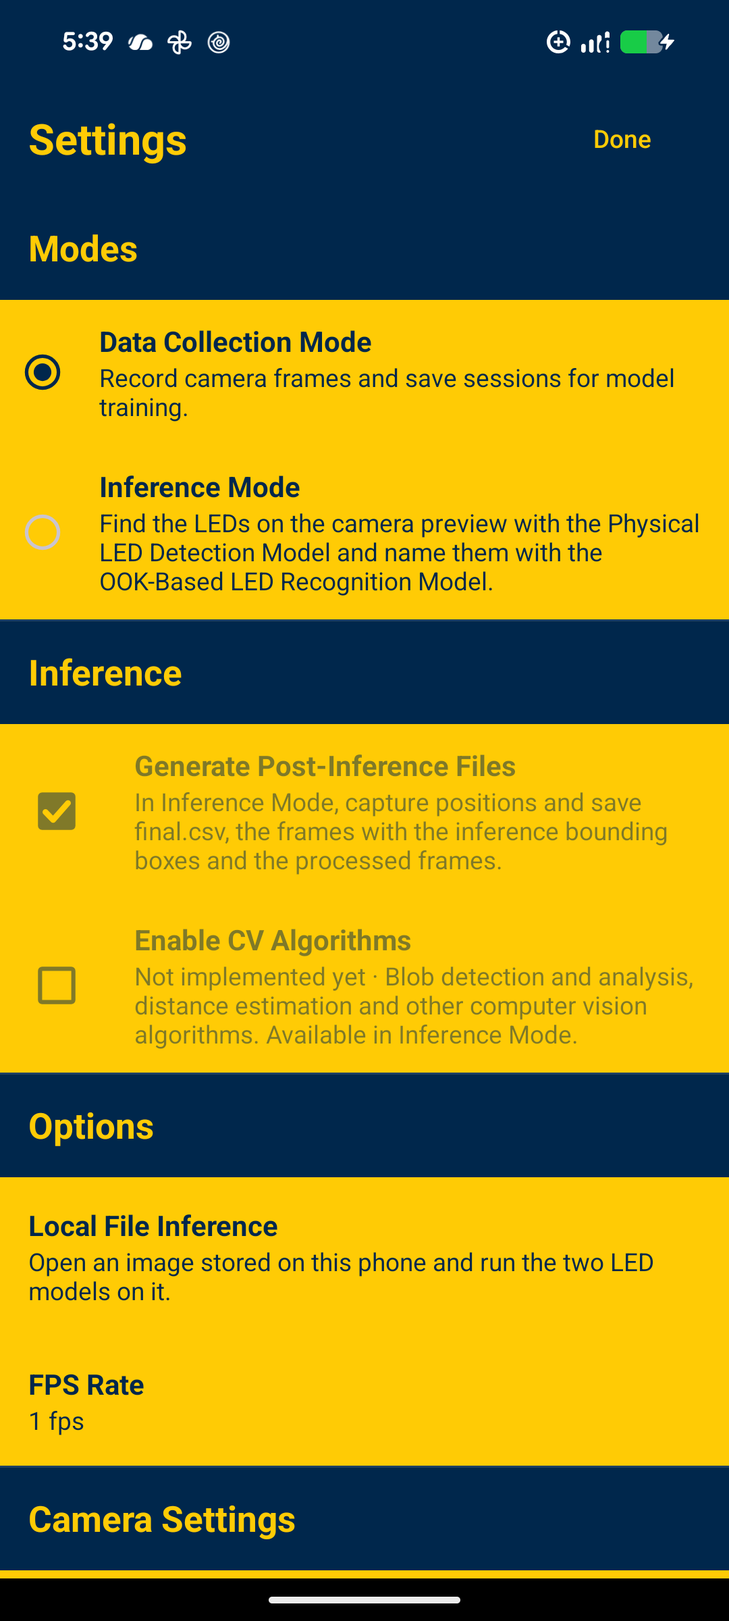
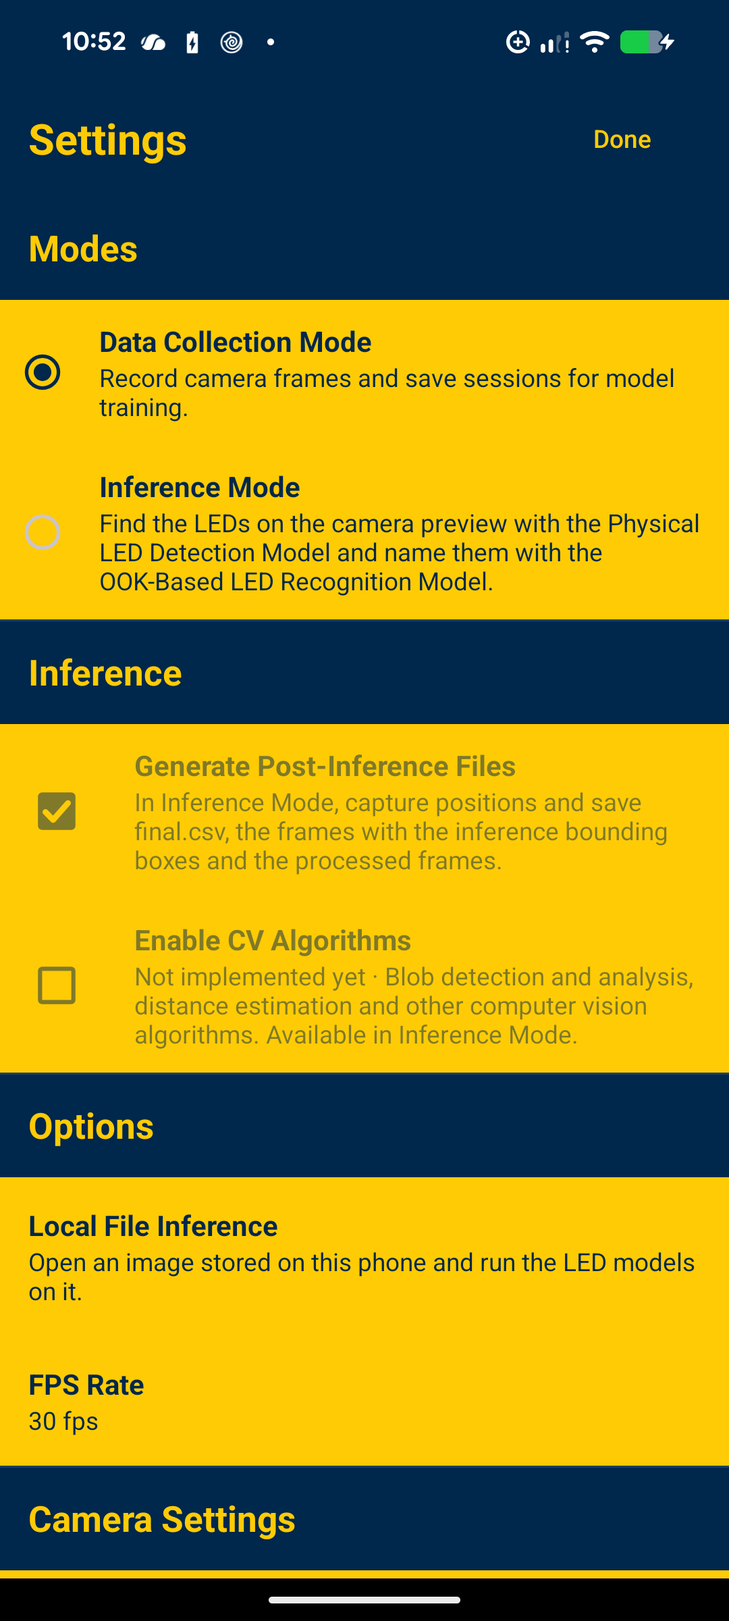
<DKA - November 18th 2026> {Draw processed frames from the two models in Inference Mode, default to 30 fps and 50 frames}
A capture made in Inference Mode now gets its Processed_Frames from the LED
Detection Model and the OOK-Based LED Recognition Model: a box round every LED
found, a cross at its centre and the LED number it was named, with processed
frame metadata that holds the same LEDs. LED detection runs only on a frame the
models could not run on. Data Collection Mode is unchanged.

A new installation and a factory reset now start at 30 fps and 50 frames.

Version 1.3.1. Screenshots 7, 10, 11, 14 and 16 retaken and 17 (Inference
Models) added.

diff --git a/app/src/main/java/com/developer27/qvlp/capture/CaptureProcessing.kt b/app/src/main/java/com/developer27/qvlp/capture/CaptureProcessing.kt
@@ -26,12 +26,14 @@ internal object CaptureProcessing {
     }
 
     /**
-     * [leds] holds the frames whose detection ran; [saved] the frame IDs whose files were all written;
-     * [inferred] the LEDs the two models found and named in each frame they ran on (Inference Mode captures only).
+     * [leds] holds the frames LED detection ran on: every frame of a Data Collection capture, and of an
+     * Inference Mode capture only a frame the models could not run on. [saved] holds the frame IDs whose files
+     * were all written; [inferred] the LEDs the two models found and named in each frame they ran on
+     * (Inference Mode captures only).
      */
     data class Result(val leds: Map<Int, FrameLeds>, val saved: Set<Int>, val inferred: Map<Int, List<LedDetection>> = emptyMap())
 
-    private class Frame(val id: Int, val leds: FrameLeds, val inferred: List<LedDetection>?)
+    private class Frame(val id: Int, val leds: FrameLeds?, val inferred: List<LedDetection>?)
 
     /** The camera's own report: its rolling-shutter skew spread over the rows of the frame. */
     fun rowTime(frames: Collection<JSONObject>): RowTime {
@@ -57,9 +59,11 @@ internal object CaptureProcessing {
      * picture, the annotated picture and both metadata files. The mapping files are written last, so their
      * presence means the capture is complete.
      *
-     * With [inference], the two LED models also run on every frame and the capture gets its post-inference
-     * files: each frame with the models' boxes, and what they found in it. The models are given the frames one
-     * at a time in the order they were taken, because an LED is named from its last five frames.
+     * With [inference], the two LED models run on every frame instead of LED detection, and the capture gets its
+     * post-inference files: each frame with the models' boxes, what they found in it, and processed frames
+     * that show the same LEDs. The models are given the frames one at a time in the order they were taken,
+     * because an LED is named from its last five frames. A frame they cannot run on is processed by LED
+     * detection, as in a Data Collection capture.
      */
     fun process(capture: File, frames: List<JSONObject>, rowTime: RowTime, settings: LedDetectionSettings,
                 cameraMetadata: (JSONObject) -> JSONObject, inference: FrameInference? = null,
@@ -90,23 +94,28 @@ internal object CaptureProcessing {
                     val raw = rawFile(capture, id)
                     val pixels = space.pixels(FramePng.i420Size(width, height))
                     DataInputStream(raw.inputStream()).use { it.readFully(pixels, 0, FramePng.i420Size(width, height)) }
-                    // Detection reads the luminance plane, which comes first in the raw frame.
-                    val found = space.detector.detect(pixels, width, height, rowTime.seconds)
                     val rgb = space.rgb(width * height * 3)
                     FramePng.toRgb(pixels, width, height, rgb)
                     val picture = FramePng.encode(rgb, width, height)
-                    // The model sees the frame before anything is drawn on it. A frame it cannot run on is still saved.
+                    // The models see the frame before anything is drawn on it. A frame they cannot run on is still saved.
                     val inferred = inference?.let { model -> order!!.turn(index) { runCatching { model.run(rgb, width, height) }.getOrNull() } }
+                    // The processed frame of an Inference Mode capture holds what the two models found. LED detection
+                    // runs where they did not; it reads the luminance plane, which comes first in the raw frame.
+                    val found = if (inferred == null) space.detector.detect(pixels, width, height, rowTime.seconds) else null
+                    val drawn = if (inferred != null) FrameOverlay.drawInferred(rgb, width, height, inferred.detections)
+                        else FrameOverlay.draw(rgb, width, height, found!!)
                     // A frame with nothing found looks the same processed, so its picture is reused as it is.
-                    val annotated = if (FrameOverlay.draw(rgb, width, height, found)) FramePng.encode(rgb, width, height) else picture
+                    val annotated = if (drawn) FramePng.encode(rgb, width, height) else picture
+                    // What the models found is the processed metadata too: it starts with the same fields.
+                    val inferredData = inferred?.let { PostInferenceFiles.metadata(id, it, inference!!.models).toString(2).toByteArray() }
                     write(File(folders[0], SessionLayout.frameName(id)), picture)
                     write(File(folders[1], SessionLayout.metadataName(id)), cameraMetadata(frame).toString(2).toByteArray())
                     write(File(folders[2], SessionLayout.frameName(id)), annotated)
-                    write(File(folders[3], SessionLayout.metadataName(id)), processedMetadata(id, found, rowTime).toString(2).toByteArray())
+                    write(File(folders[3], SessionLayout.metadataName(id)),
+                        inferredData ?: processedMetadata(id, found!!, rowTime).toString(2).toByteArray())
                     if (inferred != null) {
                         write(File(inferenceFolders[0], SessionLayout.frameName(id)), inferred.picture)
-                        write(File(inferenceFolders[1], SessionLayout.metadataName(id)),
-                            PostInferenceFiles.metadata(id, inferred, inference!!.models).toString(2).toByteArray())
+                        write(File(inferenceFolders[1], SessionLayout.metadataName(id)), inferredData!!)
                     }
                     saved.add(id)
                     raw.delete()
@@ -124,7 +133,7 @@ internal object CaptureProcessing {
             val inferred = leds.filter { it.inferred != null && it.id in saved }.associate { it.id to it.inferred!! }
             if (inference != null) write(File(inferenceFolder, SessionLayout.INFERENCE_MAPPING),
                 SessionLayout.mapping(inferred.keys.sorted()).toByteArray())
-            return Result(leds.associate { it.id to it.leds }, saved, inferred)
+            return Result(leds.filter { it.leds != null }.associate { it.id to it.leds!! }, saved, inferred)
         } finally {
             pool.shutdown()
         }

diff --git a/app/src/androidTest/java/com/developer27/qvlp/inference/LedRecognitionDeviceTest.kt b/app/src/androidTest/java/com/developer27/qvlp/inference/LedRecognitionDeviceTest.kt
@@ -5,14 +5,25 @@ import android.graphics.BitmapFactory
 import android.util.Log
 import androidx.test.ext.junit.runners.AndroidJUnit4
 import androidx.test.platform.app.InstrumentationRegistry
+import com.developer27.qvlp.capture.CaptureProcessing
+import com.developer27.qvlp.capture.SessionCsv
+import com.developer27.qvlp.capture.SessionLayout
+import com.developer27.qvlp.vision.FramePng
+import com.developer27.qvlp.vision.LedDetectionSettings
+import org.json.JSONObject
 import org.junit.Assert.*
 import org.junit.Test
 import org.junit.runner.RunWith
+import java.io.File
+import java.time.LocalDateTime
 import java.util.concurrent.FutureTask
+import kotlin.math.abs
+import kotlin.math.roundToInt
 
 /**
  * Runs the Physical LED Detection Model and the OOK-Based LED Recognition Model on the phone, on a frame of
- * the test split of the third session's datasets, whose LEDs are known. It touches no session: run it alone with
+ * the test split of the third session's datasets, whose LEDs are known. It touches no session (the capture it
+ * processes is written into the app's cache and deleted): run it alone with
  * `adb shell am instrument -w -e class com.developer27.qvlp.inference.LedRecognitionDeviceTest …`.
  */
 @RunWith(AndroidJUnit4::class)
@@ -90,6 +101,69 @@ class LedRecognitionDeviceTest {
         }
         assertArrayEquals(untouched, rgb)
         Log.i("QvlpLedModelTest", "the frames of a capture: ${frames.map { it.milliseconds }} ms; ${describe(frames.last().detections)}")
+    }
+
+    @Test fun aCaptureGetsItsProcessedFramesFromBothModels() {
+        // A whole Inference Mode capture of six frames, as the camera gives them: luminance with half-resolution colour.
+        val picture = frame()
+        val width = picture.width
+        val height = picture.height
+        val pixels = IntArray(width * height)
+        picture.getPixels(pixels, 0, width, 0, 0, width, height)
+        val raw = ByteArray(FramePng.i420Size(width, height))
+        val chromaWidth = (width + 1) / 2
+        val uPlane = width * height
+        val vPlane = uPlane + chromaWidth * ((height + 1) / 2)
+        for (y in 0 until height) for (x in 0 until width) {
+            val colour = pixels[y * width + x]
+            val red = (colour shr 16) and 0xFF; val green = (colour shr 8) and 0xFF; val blue = colour and 0xFF
+            raw[y * width + x] = (0.299 * red + 0.587 * green + 0.114 * blue).roundToInt().coerceIn(0, 255).toByte()
+            if (y % 2 == 0 && x % 2 == 0) {
+                val at = (y / 2) * chromaWidth + x / 2
+                raw[uPlane + at] = (128 - 0.168736 * red - 0.331264 * green + 0.5 * blue).roundToInt().coerceIn(0, 255).toByte()
+                raw[vPlane + at] = (128 + 0.5 * red - 0.418688 * green - 0.081312 * blue).roundToInt().coerceIn(0, 255).toByte()
+            }
+        }
+        val session = File(instrumentation.targetContext.cacheDir, "device_test_session_${System.nanoTime()}")
+        try {
+            val capture = File(SessionLayout.originals(session), SessionLayout.captureName(28, LocalDateTime.of(2026, 11, 18, 23, 0, 0)))
+            assertTrue(File(capture, SessionLayout.FRAMES).mkdirs())
+            val frames = (0..5).map { JSONObject().put("frame_id", it).put("width", width).put("height", height) }
+            frames.forEach { CaptureProcessing.rawFile(capture, it.getInt("frame_id")).writeBytes(raw) }
+
+            val result = CaptureProcessing.process(capture, frames, CaptureProcessing.RowTime(null, "unknown"), LedDetectionSettings(),
+                { JSONObject().put("frame_id", it.getInt("frame_id")) }, LedRecognition.frames(instrumentation.targetContext)) { _, _ -> }
+
+            assertEquals((0..5).toSet(), result.saved)
+            assertEquals((0..5).toSet(), result.inferred.keys)
+            // LED detection did not run: the processed frames are the two models' alone.
+            assertTrue(result.leds.isEmpty())
+            val processed = SessionLayout.processedFolder(capture)
+            val colours = intArrayOf(0xD62728, 0x1F77B4, 0x2CA02C, 0x9467BD)
+            for (id in 0..5) {
+                val text = File(processed, "${SessionLayout.PROCESSED_METADATA}/${SessionLayout.metadataName(id)}").readText()
+                val data = JSONObject(text)
+                assertEquals(LedRecognition.DETECTION_MODEL_FILE, data.getJSONObject("details").getString("detection_model"))
+                assertEquals(LedRecognition.RECOGNITION_MODEL_FILE, data.getJSONObject("details").getString("recognition_model"))
+                val drawn = BitmapFactory.decodeFile(File(processed, "${SessionLayout.PROCESSED_FRAMES}/${SessionLayout.frameName(id)}").path)
+                for ((led, box) in labelled) {
+                    // Each LED is named and is where it is labelled, and its cross is on the picture in its colour.
+                    assertEquals("frame $id: $text", 1, data.getInt("LED_${led}_detected"))
+                    val u = data.getDouble("LED_${led}_u_px")
+                    val v = data.getDouble("LED_${led}_v_px")
+                    assertTrue("frame $id LED $led at $u, $v", abs(u - ((box[0] + box[2]) / 2 - 0.5)) < 4 && abs(v - ((box[1] + box[3]) / 2 - 0.5)) < 4)
+                    assertEquals("frame $id LED $led", colours[led - 1], drawn.getPixel(u.roundToInt(), v.roundToInt()) and 0xFFFFFF)
+                }
+            }
+            // Both folders give final.csv the same row.
+            assertEquals(SessionCsv.readInference(SessionLayout.inferenceFolder(capture)), SessionCsv.readProcessed(processed))
+            // One processed frame is kept where it can be looked at from a computer.
+            instrumentation.targetContext.getExternalFilesDir(null)?.let { folder ->
+                File(processed, "${SessionLayout.PROCESSED_FRAMES}/${SessionLayout.frameName(5)}").copyTo(File(folder, "device_test_processed_frame.png"), overwrite = true)
+            }
+        } finally {
+            session.deleteRecursively()
+        }
     }
 
     @Test fun onlyTheTickedModelsRun() {

diff --git a/app/src/test/java/com/developer27/qvlp/capture/CaptureProcessingTest.kt b/app/src/test/java/com/developer27/qvlp/capture/CaptureProcessingTest.kt
@@ -116,10 +116,25 @@ class CaptureProcessingTest {
                 "$inference/inference_frames/frame_00000.png", "$inference/inference_frames/frame_00001.png",
                 "$inference/inference_frames/frame_00002.png",
             ), files.filter { it.startsWith("Inference_Frames/") })
-            // The original and processed frames are written exactly as in Data Collection Mode.
+            // The original and processed frames have the same files as in Data Collection Mode.
             assertEquals(7, files.count { it.startsWith("Original_Frames/") })
             assertEquals(7, files.count { it.startsWith("Processed_Frames/") })
             assertArrayEquals(byteArrayOf(1, 2, 3), File(session, "$inference/inference_frames/frame_00000.png").readBytes())
+
+            // The processed frames hold what the two models found, not what LED detection finds in this frame:
+            // LED 2 in its box, where LED detection would name the 1800 Hz light LED 1.
+            assertTrue(result.leds.isEmpty())
+            val processed = "Processed_Frames/processed_position_frames_4_20261116_210000"
+            val processedData = File(session, "$processed/processed_frame_metadata/frame_00002_metadata.json").readText()
+            assertEquals(File(session, "$inference/inference_frame_metadata/frame_00002_metadata.json").readText(), processedData)
+            assertEquals(1, JSONObject(processedData).getInt("LED_2_detected"))
+            assertEquals(0, JSONObject(processedData).getInt("LED_1_detected"))
+            assertEquals(com.developer27.qvlp.inference.LedRecognition.RECOGNITION_MODEL_FILE,
+                JSONObject(processedData).getJSONObject("details").getString("recognition_model"))
+            val drawn = FramePng.i420Size(width, height).let { ByteArray(width * height * 3).also { rgb -> FramePng.toRgb(rawFrame(), width, height, rgb) } }
+            assertTrue(com.developer27.qvlp.vision.FrameOverlay.drawInferred(drawn, width, height, listOf(LedDetection(2, 0.97f, 300f, 220f, 340f, 260f))))
+            assertArrayEquals(FramePng.encode(drawn, width, height), File(session, "$processed/processed_frames/frame_00002.png").readBytes())
+            assertEquals(SessionCsv.readInference(SessionLayout.inferenceFolder(capture)), SessionCsv.readProcessed(SessionLayout.processedFolder(capture)))
 
             // The inference metadata gives the centre of the model's box, and final.csv is built from it.
             val leds = JSONObject(File(session, "$inference/inference_frame_metadata/frame_00002_metadata.json").readText())
@@ -195,6 +210,11 @@ class CaptureProcessingTest {
 
             assertEquals(setOf(0, 1), result.saved)
             assertTrue(result.inferred.isEmpty())
+            // Its processed frames come from LED detection, as in a Data Collection capture.
+            assertEquals(setOf(0, 1), result.leds.keys)
+            val details = JSONObject(File(SessionLayout.processedFolder(capture), "processed_frame_metadata/frame_00001_metadata.json").readText()).getJSONObject("details")
+            assertTrue(details.has("blobs_found"))
+            assertFalse(details.has("recognition_model"))
             // The mapping file exists and lists no frame, so the position's LEDs count as not found rather than unknown.
             assertEquals("frame_file,metadata_file\n",
                 File(SessionLayout.inferenceFolder(capture), SessionLayout.INFERENCE_MAPPING).readText())

diff --git a/app/src/main/java/com/developer27/qvlp/vision/FrameOverlay.kt b/app/src/main/java/com/developer27/qvlp/vision/FrameOverlay.kt
@@ -1,10 +1,14 @@
 package com.developer27.qvlp.vision
 
+import com.developer27.qvlp.inference.LedDetection
+import kotlin.math.ceil
+import kotlin.math.floor
 import kotlin.math.roundToInt
 
 /**
  * Draws what LED detection found onto a frame: a box around every blob, a cross at its centre and its LED name.
  * This is the "processed" picture of a frame. A dashed box marks a blob that was found but not accepted.
+ * A capture made in Inference Mode gets the same picture from what the two LED models found.
  */
 internal object FrameOverlay {
     /** One colour per LED, as in the project's figures: red, blue, green, purple. */
@@ -27,6 +31,29 @@ internal object FrameOverlay {
             val textHeight = 7 * TEXT_SCALE
             val above = blob.top - LINE - textHeight - 4
             text(rgb, width, height, blob.left - LINE, if (above >= 0) above else blob.top + blob.height + LINE + 4, label, colour)
+        }
+        return true
+    }
+
+    /**
+     * The processed picture of a frame from an Inference Mode capture: a box round every LED the detection
+     * model found, a cross at its centre and the name the recognition model gave it. An LED that was found but
+     * not named is yellow and marked "LED ?". Returns false when there was nothing to draw.
+     */
+    fun drawInferred(rgb: ByteArray, width: Int, height: Int, found: List<LedDetection>): Boolean {
+        if (found.isEmpty()) return false
+        for (led in found) {
+            val colour = if (led.named) LED_COLOURS[(led.led - 1).mod(LED_COLOURS.size)] else UNKNOWN
+            // The pixels the box covers; the line is drawn just outside them, as round a blob.
+            val left = floor(led.left).toInt()
+            val top = floor(led.top).toInt()
+            val right = maxOf(left, ceil(led.right).toInt() - 1)
+            val bottom = maxOf(top, ceil(led.bottom).toInt() - 1)
+            box(rgb, width, height, left - LINE, top - LINE, right + LINE, bottom + LINE, colour, dashed = false)
+            // The centre as the metadata gives it: measured from the centre of the top-left pixel.
+            cross(rgb, width, height, ((led.left + led.right) / 2f - 0.5f).roundToInt(), ((led.top + led.bottom) / 2f - 0.5f).roundToInt(), colour)
+            val above = top - LINE - 7 * TEXT_SCALE - 4
+            text(rgb, width, height, left - LINE, if (above >= 0) above else bottom + LINE + 5, if (led.named) "LED ${led.led}" else "LED ?", colour)
         }
         return true
     }

diff --git a/app/src/test/java/com/developer27/qvlp/vision/FrameOverlayTest.kt b/app/src/test/java/com/developer27/qvlp/vision/FrameOverlayTest.kt
@@ -1,5 +1,6 @@
 package com.developer27.qvlp.vision
 
+import com.developer27.qvlp.inference.LedDetection
 import org.junit.Assert.*
 import org.junit.Test
 
@@ -34,6 +35,29 @@ class FrameOverlayTest {
         // An accepted LED has a solid box; a rejected one is dashed, so part of its edge stays clear.
         assertTrue((98..141).all { pixel(rgb, it, 78) == 0xD62728 })
         assertTrue((228..271).any { pixel(rgb, it, 158) == 0 })
+    }
+
+    @Test fun marksWhatTheModelsFoundTheSameWay() {
+        val rgb = ByteArray(width * height * 3)
+        assertFalse(FrameOverlay.drawInferred(rgb, width, height, emptyList()))
+        assertTrue(rgb.all { it.toInt() == 0 })
+        val second = LedDetection(2, 0.97f, 100f, 80f, 140f, 120f)
+        val fourth = LedDetection(4, 0.99f, 230.4f, 160.2f, 270.6f, 199.8f)
+        val unnamed = LedDetection(LedDetection.UNNAMED, 0.9f, 20f, 180f, 60f, 220f)
+        assertTrue(FrameOverlay.drawInferred(rgb, width, height, listOf(second, fourth, unnamed)))
+        // The cross is at the centre the metadata gives, 119.5 and 99.5, rounded.
+        assertEquals(0x1F77B4, pixel(rgb, 120, 100))
+        // A solid box just outside the pixels the model's box covers, columns 100 to 139 and rows 80 to 119.
+        assertTrue((98..141).all { pixel(rgb, it, 78) == 0x1F77B4 && pixel(rgb, it, 121) == 0x1F77B4 })
+        assertTrue((78..121).all { pixel(rgb, 98, it) == 0x1F77B4 && pixel(rgb, 141, it) == 0x1F77B4 })
+        assertEquals(0, pixel(rgb, 105, 85))
+        assertEquals(0x9467BD, pixel(rgb, 250, 180))   // LED 4
+        assertEquals(0x9467BD, pixel(rgb, 228, 158))   // its box holds the part-covered edge pixels too
+        assertEquals(0xFFD400, pixel(rgb, 40, 200))    // found by the detection model, not named
+        assertEquals(0, pixel(rgb, 5, 5))
+        // Drawing never leaves the frame.
+        assertTrue(FrameOverlay.drawInferred(ByteArray(width * height * 3), width, height,
+            listOf(LedDetection(1, 1f, -4f, -4f, 6f, 6f), LedDetection(3, 1f, 300f, 220f, 330f, 250f))))
     }
 
     @Test fun drawingNeverLeavesTheFrame() {

diff --git a/app/src/main/java/com/developer27/qvlp/camera/CaptureSettings.kt b/app/src/main/java/com/developer27/qvlp/camera/CaptureSettings.kt
@@ -3,12 +3,12 @@ package com.developer27.qvlp.camera
 import java.math.BigDecimal
 
 internal object CaptureSettings {
-    /** A new installation starts at a 6000 Hz rolling shutter rate, ISO 100 and 1 fps. */
+    /** A new installation starts at a 6000 Hz rolling shutter rate, ISO 100 and 30 fps. */
     const val DEFAULT_SHUTTER_RATE_HZ = 6000
     const val DEFAULT_EXPOSURE_NS = 1_000_000_000L / DEFAULT_SHUTTER_RATE_HZ
     const val DEFAULT_ISO_RATE = 100
-    const val DEFAULT_FPS_RATE = 1
-    /** The rate the fixed resolution has to support. It is not the default FPS rate. */
+    const val DEFAULT_FPS_RATE = 30
+    /** The rate the fixed resolution has to support. */
     const val DEFAULT_FPS = 30
 
     /** Accept microseconds with at most nanosecond precision; reject overflow and zero. */
@@ -49,7 +49,7 @@ internal object CaptureSettings {
     fun fpsRange(frameRates: List<Int>): IntRange =
         if (frameRates.isEmpty()) DEFAULT_FPS..DEFAULT_FPS else frameRates.min()..frameRates.max()
 
-    /** The FPS rate a camera starts with: 1 fps, or the slowest rate it has when it cannot go that slowly. */
+    /** The FPS rate a camera starts with: 30 fps, or the rate nearest to it that the camera has. */
     fun defaultFps(frameRates: List<Int>): Int = fpsRange(frameRates).let { DEFAULT_FPS_RATE.coerceIn(it.first, it.last) }
 
     /** A typed FPS rate, or null when it is not a whole number inside [range]. */

diff --git a/app/src/test/java/com/developer27/qvlp/camera/CaptureSettingsTest.kt b/app/src/test/java/com/developer27/qvlp/camera/CaptureSettingsTest.kt
@@ -62,11 +62,13 @@ class CaptureSettingsTest {
     }
 
     @Test
-    fun aCameraStartsAtOneFps() {
-        assertEquals(1, CaptureSettings.DEFAULT_FPS_RATE)
-        assertEquals(1, CaptureSettings.defaultFps(listOf(1, 5, 10, 15, 24, 25, 30)))
-        // A camera that cannot go as slowly as 1 fps starts at the slowest rate it has.
-        assertEquals(5, CaptureSettings.defaultFps(listOf(5, 30, 60)))
+    fun aCameraStartsAtThirtyFps() {
+        assertEquals(30, CaptureSettings.DEFAULT_FPS_RATE)
+        assertEquals(30, CaptureSettings.defaultFps(listOf(1, 5, 10, 15, 24, 25, 30)))
+        assertEquals(30, CaptureSettings.defaultFps(listOf(5, 30, 60)))
+        // A camera that cannot reach 30 fps starts at the fastest rate it has, and one that cannot go that slowly at its slowest.
+        assertEquals(24, CaptureSettings.defaultFps(listOf(1, 15, 24)))
+        assertEquals(60, CaptureSettings.defaultFps(listOf(60, 120)))
         assertEquals(30, CaptureSettings.defaultFps(emptyList()))
     }
 

diff --git a/app/src/main/java/com/developer27/qvlp/capture/SessionLayout.kt b/app/src/main/java/com/developer27/qvlp/capture/SessionLayout.kt
@@ -15,7 +15,7 @@ import java.time.format.DateTimeFormatter
  *           metadata/frame_00000_metadata.json …        camera settings of each frame
  *           frame_and_metadata_mapping.csv
  *       Processed_Frames/
- *         processed_position_frames_<id>_<timestamp>/   the same capture after LED detection
+ *         processed_position_frames_<id>_<timestamp>/   the same capture after LED detection, or after the two LED models
  *           processed_frames/frame_00000.png …
  *           processed_frame_metadata/frame_00000_metadata.json …
  *           processed_frame_and_metadata_mapping.csv

diff --git a/app/src/main/java/com/developer27/qvlp/FactoryReset.kt b/app/src/main/java/com/developer27/qvlp/FactoryReset.kt
@@ -7,7 +7,7 @@ import com.developer27.qvlp.capture.SessionFiles
 
 /**
  * Puts the settings back the way a new installation starts: the front camera, 1× zoom, the default rolling
- * shutter rate (6000 Hz), ISO 100 and 1 fps on every camera, 30 frames, Inference Mode with both Inference Models
+ * shutter rate (6000 Hz), ISO 100 and 30 fps on every camera, 50 frames, Inference Mode with both Inference Models
  * ticked, Generate Post-Inference Files ticked, Enable CV Algorithms unticked and no position chosen.
  * Recorded sessions and the auto-save folder are not settings and are kept.
  */

diff --git a/app/src/main/java/com/developer27/qvlp/camera/ResearchPreset.kt b/app/src/main/java/com/developer27/qvlp/camera/ResearchPreset.kt
@@ -8,7 +8,7 @@ import kotlin.math.abs
  * the operator only chooses the rolling shutter rate and ISO.
  */
 internal object ResearchPreset {
-    /** The fixed values, with the three adjustable ones at their defaults: 6000 Hz, ISO 100 and 1 fps. */
+    /** The fixed values, with the three adjustable ones at their defaults: 6000 Hz, ISO 100 and 30 fps. */
     fun defaults(capabilities: CameraCapabilities): CameraProfile {
         // The resolution is chosen for 30 fps; the camera then starts at the default FPS rate.
         val stream = streamAndRate(capabilities).first

diff --git a/app/src/test/java/com/developer27/qvlp/capture/CaptureLengthTest.kt b/app/src/test/java/com/developer27/qvlp/capture/CaptureLengthTest.kt
@@ -11,7 +11,7 @@ class CaptureLengthTest {
         }
         assertNotNull(CaptureLength.parse("1"))
         assertNotNull(CaptureLength.parse("1000"))
-        assertEquals(30, CaptureLength().frames)
+        assertEquals(50, CaptureLength().frames)
         assertTrue(runCatching { CaptureLength(0) }.isFailure)
     }
 

diff --git a/app/src/main/java/com/developer27/qvlp/capture/CaptureLength.kt b/app/src/main/java/com/developer27/qvlp/capture/CaptureLength.kt
@@ -10,7 +10,7 @@ internal data class CaptureLength(val frames: Int = DEFAULT_FRAMES) {
     }
 
     companion object {
-        const val DEFAULT_FRAMES = 30
+        const val DEFAULT_FRAMES = 50
         const val COUNTDOWN_SECONDS = 3
         val RANGE = 1..1000
         fun parse(raw: String?): CaptureLength? =
